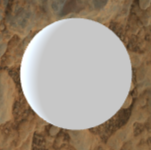
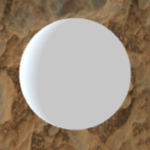
some changes

diff --git a/image_recognition/image_testing.py b/image_recognition/image_testing.py
@@ -2,7 +2,7 @@ import cv2
 from matplotlib import pyplot as plt
   
 # Opening image
-img = cv2.imread("Sphere2.png")
+img = cv2.imread("neg/27598.png")
   
 # OpenCV opens images as BRG 
 # but we want it as RGB We'll 
@@ -14,7 +14,7 @@ img_rgb = cv2.cvtColor(img, cv2.COLOR_BGR2RGB)
 # Use minSize because for not 
 # bothering with extra-small 
 # dots that would look like STOP signs
-sphere_data = cv2.CascadeClassifier('haarcascade_frontalface_default.xml')
+sphere_data = cv2.CascadeClassifier('data_sphere/cascade.xml')
   
 found = sphere_data.detectMultiScale(img_gray, 
                                    minSize =(20, 20))
